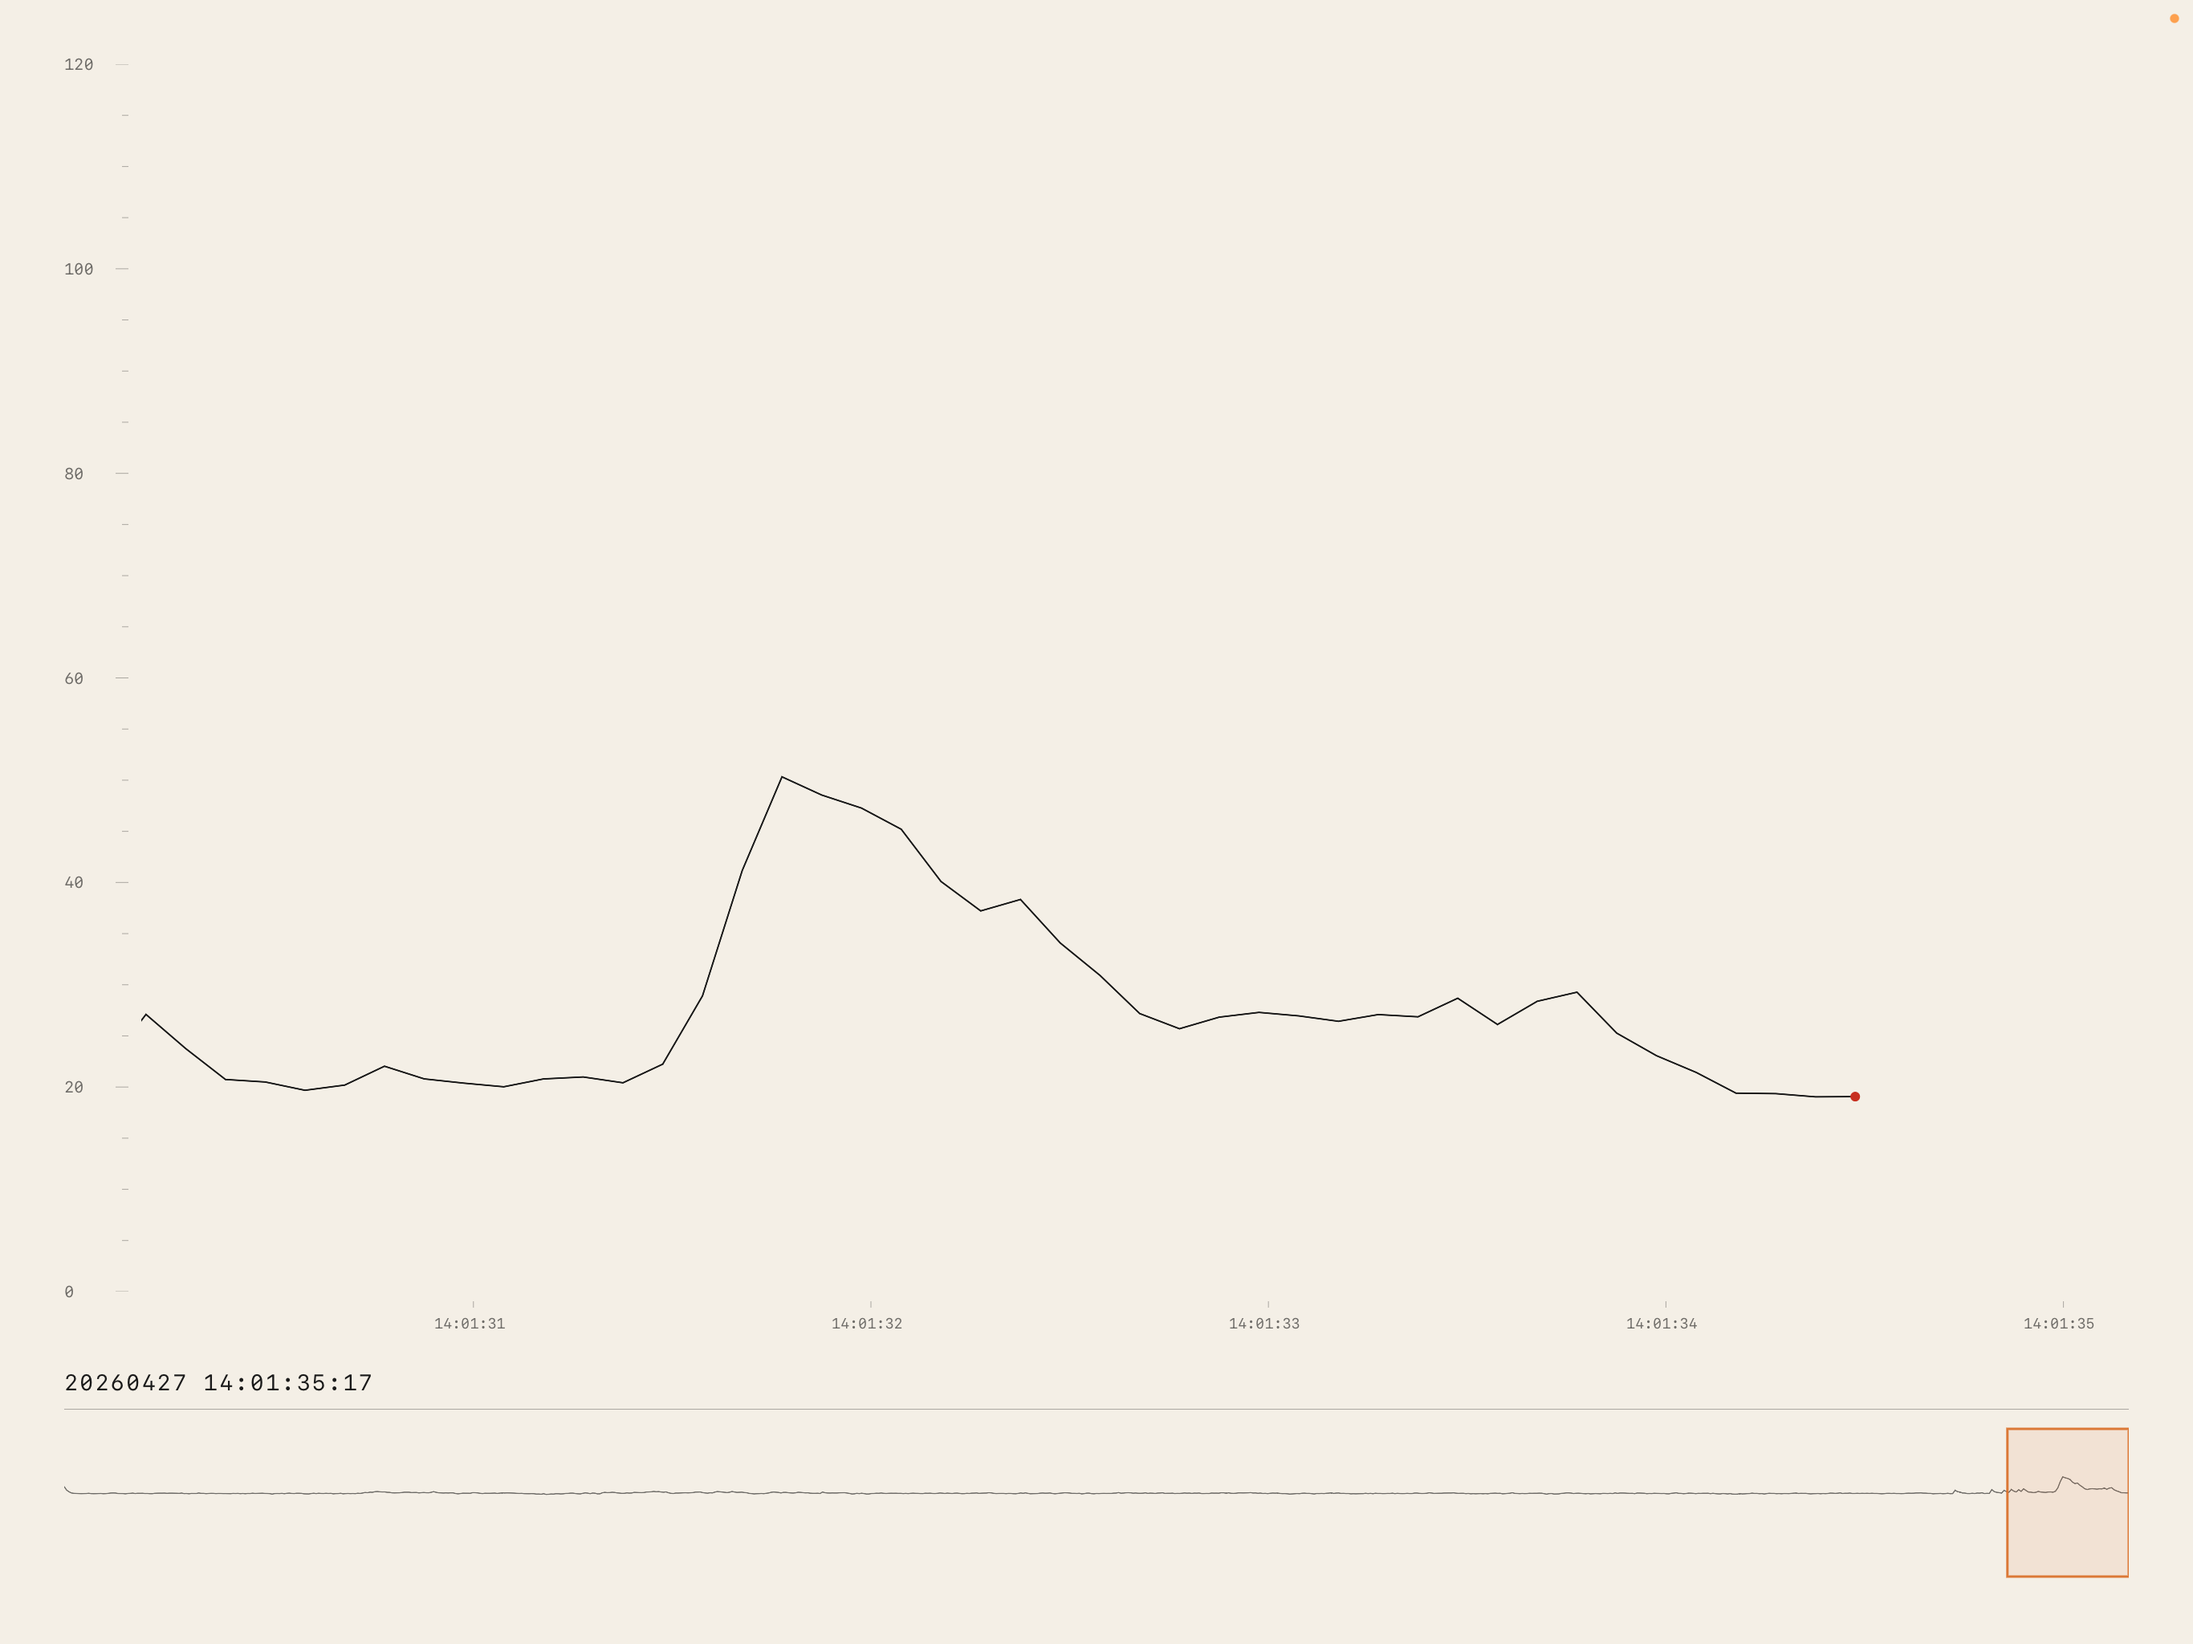
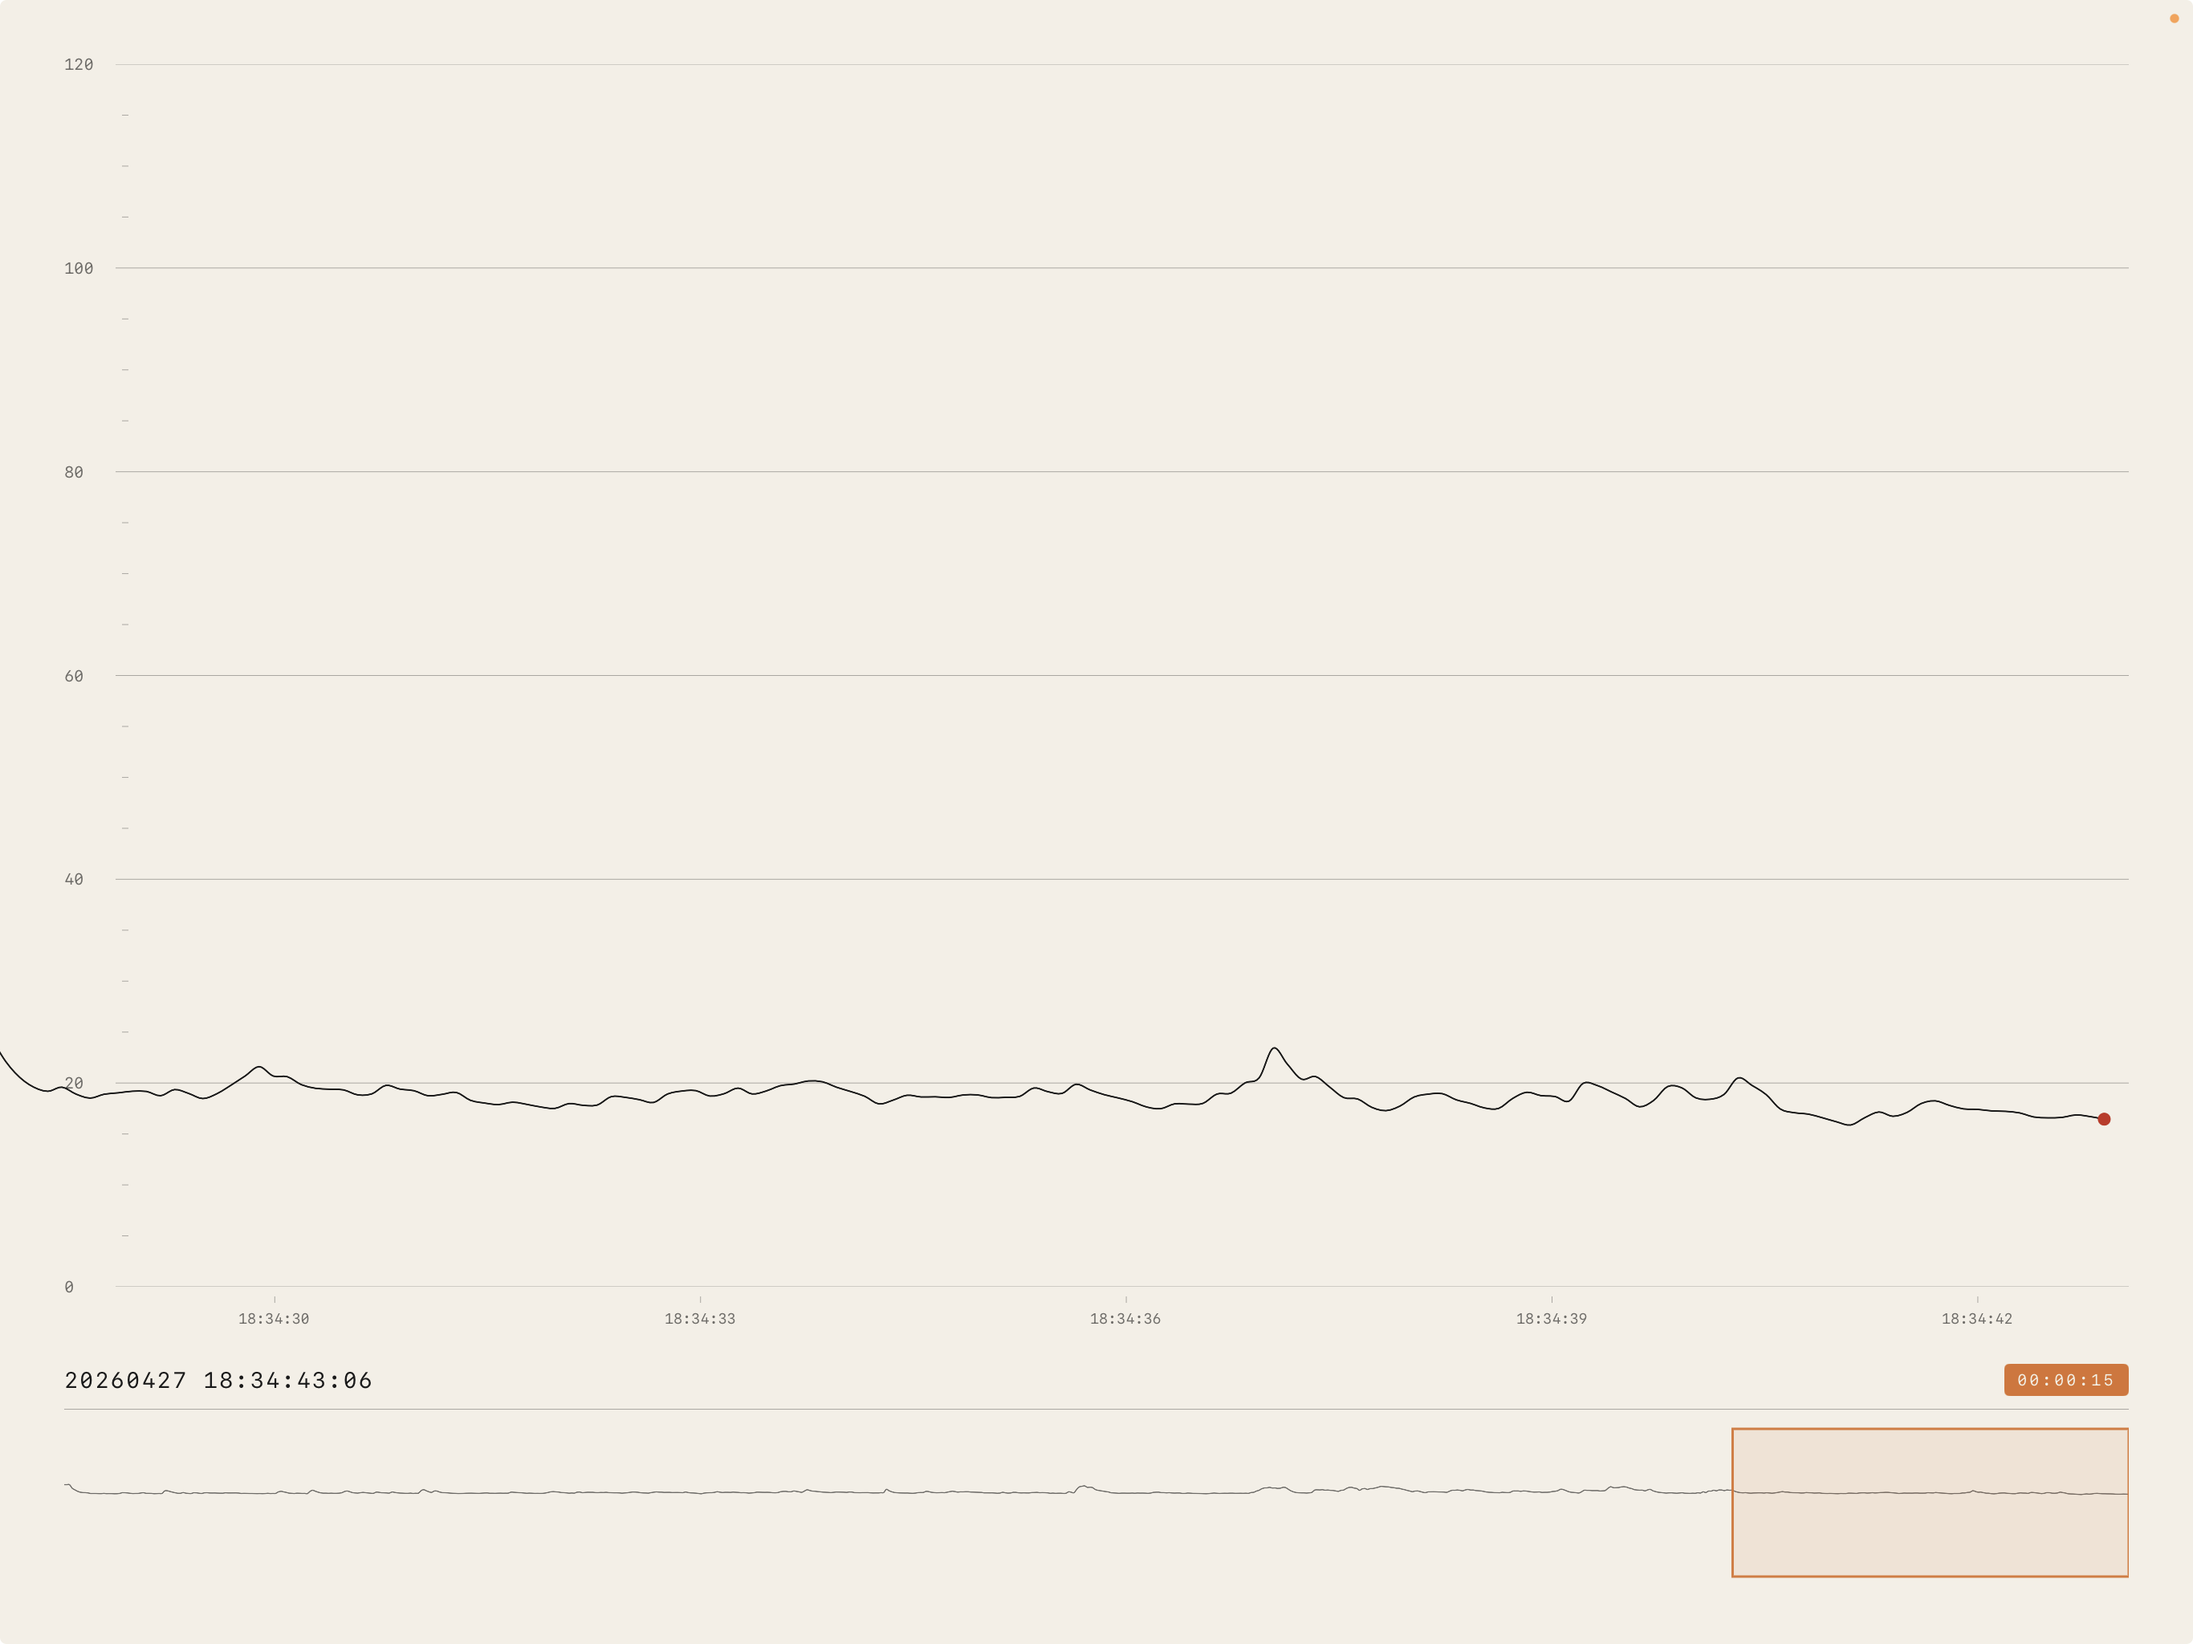
Refresh README screenshot to current build (grid lines, chip, dot, viewport)

diff --git a/README.md b/README.md
@@ -1,6 +1,6 @@
 # Seismic Shifts
 
-![Seismic Shifts running on iPad — a clap captured at 14:01:32 as a brief peak on a near-black trace over cream paper, with a 0–120 dB SPL scale on the left, time markers below, a centisecond timestamp, and a compressed history strip with an orange viewport rectangle along the bottom.](docs/screenshot.png)
+![Seismic Shifts running on iPad — a quiet room captured at around 18 dB SPL with a small peak just after 18:34:36. 0–120 dB SPL scale on the left with horizontal grid lines across the trace area, time markers below, centisecond timestamp on the lower-left, an orange chip showing the active 00:00:15 window on the lower-right, and a compressed history strip with an orange viewport rectangle anchored to the right edge.](docs/screenshot.png)
 
 A native iPadOS app that listens to a gallery space and renders the
 room's acoustic energy as a single, slowly scrolling horizontal trace.
